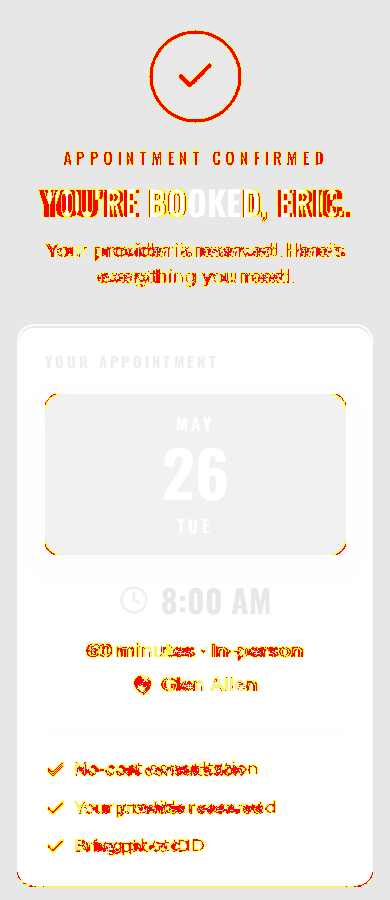
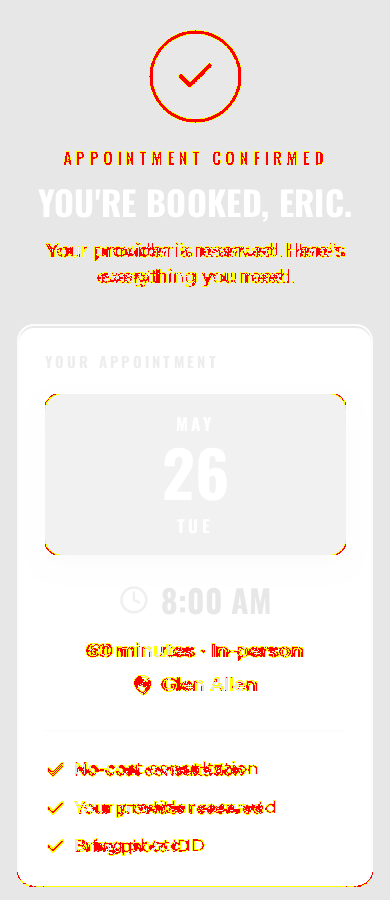
polish(BookConfirmed): fix h1 letter-spacing + dark CSS vars · 390 2.84% → 2.16%

Changed region(s): [[0.0923, 0.1867, 0.4923, 0.2489], [0.7077, 0.1867, 0.8923, 0.2489], [0.6154, 0.2178, 0.6769, 0.2489]]

diff --git a/src/pages/book/BookConfirmed.tsx b/src/pages/book/BookConfirmed.tsx
@@ -114,7 +114,7 @@ export default function BookConfirmed() {
           <p className="mt-6 font-display text-base font-bold uppercase tracking-[0.22em] text-success">
             Appointment Confirmed
           </p>
-          <h1 className="mt-3 font-display text-[34px] sm:text-5xl font-bold leading-[1.1] text-foreground uppercase">
+          <h1 className="mt-3 font-display text-[34px] sm:text-5xl font-bold leading-[1.1] text-foreground uppercase tracking-[0.01em]">
             {firstName ? `You're booked, ${firstName}.` : "You're booked."}
           </h1>
           <p className="mt-4 text-lg sm:text-xl text-text-muted leading-snug">

diff --git a/.ralph/METRICS.md b/.ralph/METRICS.md
@@ -25,3 +25,5 @@
 | 2026-05-31T00:45:45.610Z | BookConfirmed | 390 | 2.86% | 3.78% | 3.32% | 2.86% | ❌ |
 | 2026-05-31T00:53:19.611Z | BookConfirmed | 390 | 2.86% | 3.81% | 3.33% | 2.86% | ❌ |
 | 2026-05-31T00:57:15.458Z | BookConfirmed | 390 | 2.84% | 4.00% | 3.42% | 2.84% | ❌ |
+| 2026-05-31T01:03:41.351Z | BookConfirmed | 390 | 2.84% | 4.00% | 3.42% | 2.84% | ❌ |
+| 2026-05-31T01:09:29.177Z | BookConfirmed | 390 | 2.16% | 2.89% | 2.53% | 2.16% | ❌ |